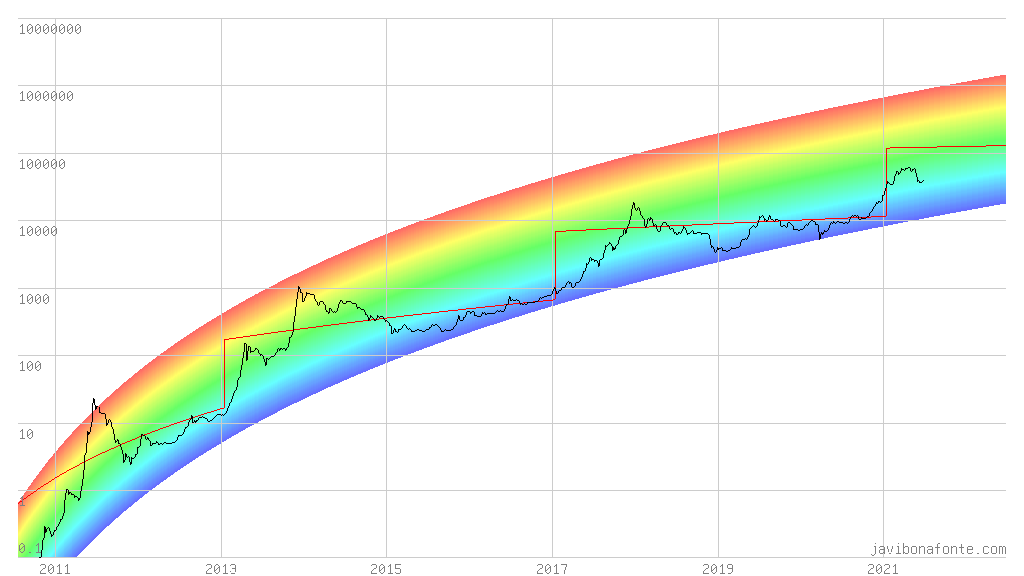
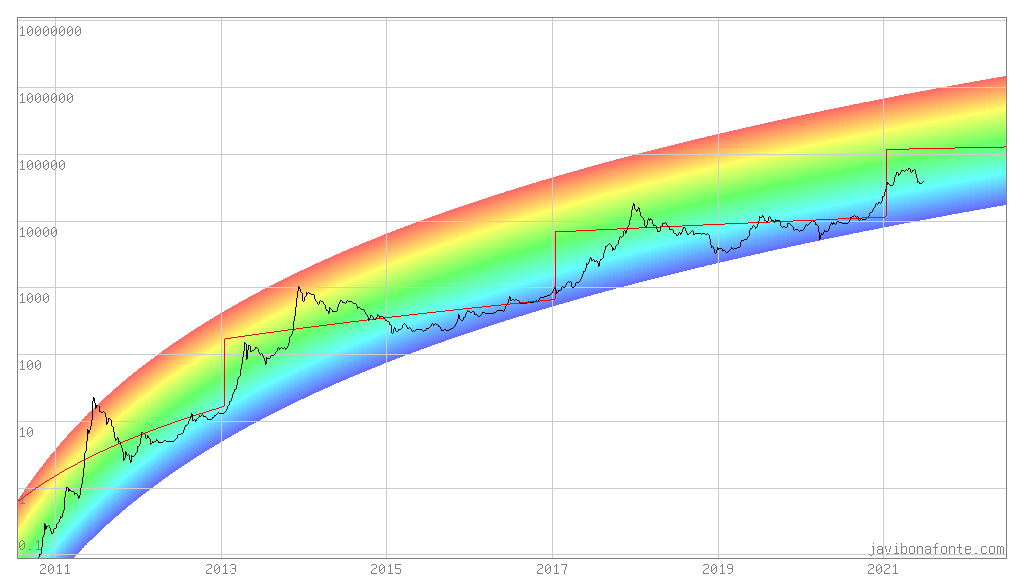
added a border to the image

diff --git a/src/btc-charts.c b/src/btc-charts.c
@@ -45,10 +45,14 @@ struct row {
 struct chart_cfg {
     int w, h, pad; // width, height and padding of chart image
     int paint_price, paint_trololo, paint_sf_model; // things to paint (0/1)
-    float min_x, max_x, min_y, max_y; // x values and y values to paint
-                                      // x = days, y = price
-    float x_axis_step, y_axis_step; // step of change between axis lines
-    float min_x_year, max_x_year, x_axis_step_year; // x values in years
+
+    // x values to paint (days)
+    float min_x, max_x, first_x_axis, x_axis_step;
+    // x values in years
+    float min_x_year, max_x_year, first_x_year, x_axis_step_year;
+    // y values to paint (dollars)
+    float min_y, max_y, first_y_axis, y_axis_step;
+
     int scale; // scale of the y axis (linear or logarithmic)
 };
 
@@ -173,12 +177,14 @@ struct chart_cfg get_chart_cfg (int num_days_in_file, int scale,
         case linear:
             cfg.min_y = 0;
             cfg.max_y = 65000;
+            cfg.first_y_axis = 10000;
             cfg.y_axis_step = 10000;
             break;
 
         case logarithmic:
-            cfg.min_y = 0.1;
-            cfg.max_y = 10000000;
+            cfg.min_y = 0.1 * 0.9;
+            cfg.max_y = 10000000 * 1.1;
+            cfg.first_y_axis = 0.1;
             cfg.y_axis_step = 10;
             break;
     }
@@ -189,6 +195,7 @@ struct chart_cfg get_chart_cfg (int num_days_in_file, int scale,
 
     cfg.min_x_year = days_since_gen_to_years (cfg.min_x);
     cfg.max_x_year = days_since_gen_to_years (cfg.max_x);
+    cfg.first_x_year = ceil (cfg.min_x_year);
     cfg.x_axis_step_year = cfg.x_axis_step / 365;
 
     return cfg;
@@ -409,6 +416,11 @@ int generate_img (struct row *rows, int num_rows, struct chart_cfg cfg) {
     if (code != 0)
         goto finalise;
 
+    // Paints image border
+    code = paint_img_border (128, 128, 128, 255);
+    if (code != 0)
+        goto finalise;
+
     if (cfg.paint_trololo) {
         // Paints trololo
         code = paint_trololo (cfg);
@@ -417,14 +429,13 @@ int generate_img (struct row *rows, int num_rows, struct chart_cfg cfg) {
     }
 
     // Paints x axis
-    code = paint_x_axis (cfg.min_x_year, cfg.max_x_year,
-            ceil (cfg.min_x_year), cfg.x_axis_step_year,
-            204, 204, 204, 255);
+    code = paint_x_axis (cfg.min_x_year, cfg.max_x_year, cfg.first_x_year,
+            cfg.x_axis_step_year, 204, 204, 204, 255);
     if (code != 0)
         goto finalise;
 
     // Paints y axis
-    code = paint_y_axis (cfg.min_y, cfg.max_y, cfg.min_y, cfg.scale,
+    code = paint_y_axis (cfg.min_y, cfg.max_y, cfg.first_y_axis, cfg.scale,
             cfg.y_axis_step, 204, 204, 204, 255);
     if (code != 0)
         goto finalise;
@@ -467,13 +478,12 @@ int process_img (struct chart_cfg cfg) {
 
     // Annotates x axis
     code =  annotate_x_axis_values (cfg.min_x_year, cfg.max_x_year,
-            ceil (cfg.min_x_year), cfg.x_axis_step_year,
-            "rgb(128, 128, 128)");
+            cfg.first_x_year, cfg.x_axis_step_year, "rgb(128, 128, 128)");
     if (code != 0)
         goto finalise;
 
     // Annotates y axis
-    code = annotate_y_axis_values (cfg.min_y, cfg.max_y, cfg.min_y,
+    code = annotate_y_axis_values (cfg.min_y, cfg.max_y, cfg.first_y_axis,
             cfg.scale, cfg.y_axis_step, "rgb(128, 128, 128)");
     if (code != 0)
         goto finalise;

diff --git a/src/myimg/myimg.c b/src/myimg/myimg.c
@@ -98,6 +98,32 @@ int paint_img_background (int r, int g, int b, int a) {
 }
 
 /**
+ * Paintf border of 'Img' just at the edge of the 'Pad'. The color 'rgba'.
+ */
+int paint_img_border (int r, int g, int b, int a) {
+
+    // If 'Img' buffer hasn't been created...
+    if (Img == NULL) {
+        fprintf (stderr, "Image buffer hasn't been created.\n");
+        return 1;
+    }
+
+    int x, y;
+
+    for (x = Pad - 1; x <= Width - Pad; x++) {
+        set_rgba (x, Pad - 1, r, g, b, a);
+        set_rgba (x, Height - Pad, r, g, b, a);
+    }
+
+    for (y = Pad - 1; y <= Height - Pad; y++) {
+        set_rgba (Pad - 1, y, r, g, b, a);
+        set_rgba (Width - Pad, y, r, g, b, a);
+    }
+
+    return 0;
+}
+
+/**
  * Paints x axis lines on 'Img' from 'min' to 'max' starting at 'first'
  * and spacing them by 'step'. The color is 'color'.
  */

diff --git a/src/myimgproc/myimgproc.c b/src/myimgproc/myimgproc.c
@@ -143,12 +143,12 @@ int annotate_watermark (int corner, char *text, char *color) {
             break;
 
         case top_right:
-            x = Width - len * FONT_WIDTH - Pad;
+            x = Width - Pad - len * FONT_WIDTH - FONT_WIDTH / 4.0;
             y = FONT_SIZE + Pad;
             break;
 
         case bottom_right:
-            x = Width - len * FONT_WIDTH - Pad;
+            x = Width - Pad - len * FONT_WIDTH - FONT_WIDTH / 4.0;
             y = Height - Pad - FONT_SIZE / 4;
             break;
 

diff --git a/src/myimg/myimg.h b/src/myimg/myimg.h
@@ -2,6 +2,7 @@
 int create_img (int, int, int);
 int set_rgba (int, int, int, int, int, int);
 int paint_img_background (int, int, int, int);
+int paint_img_border (int, int, int, int);
 int paint_x_axis (float, float, float, float, int, int, int, int);
 int paint_y_axis (float, float, float, int, float, int, int, int, int);
 int write_img (char *);
